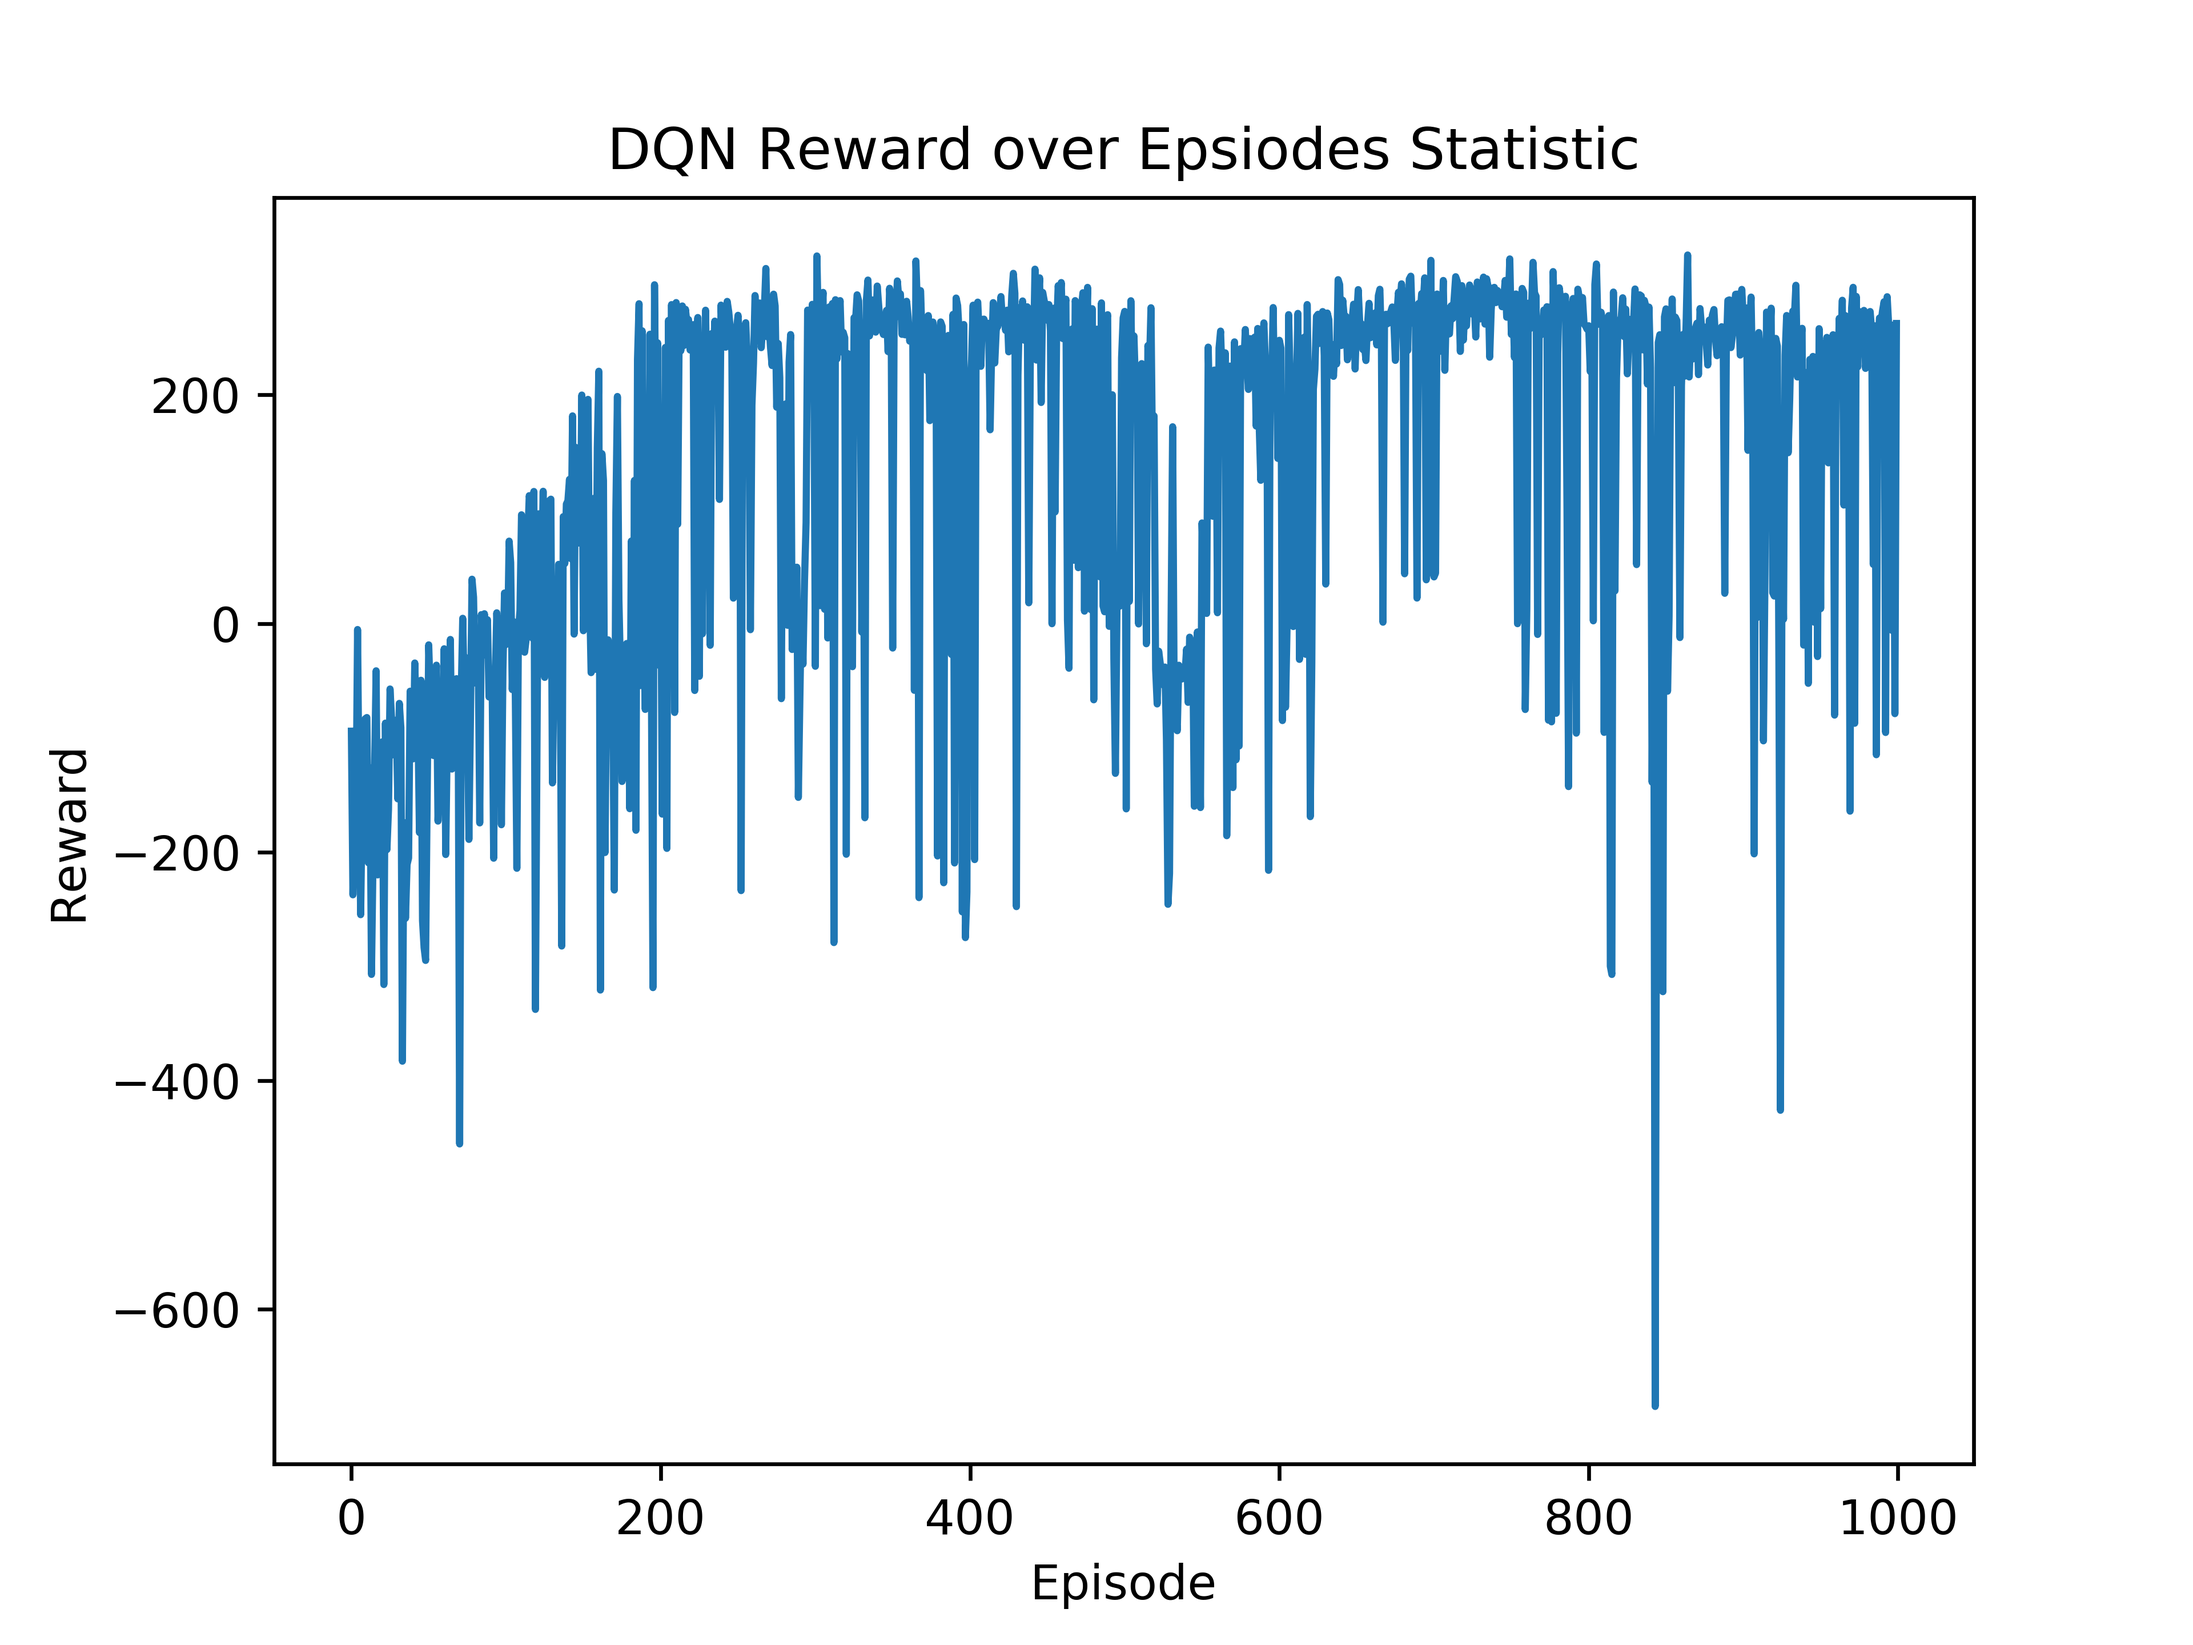
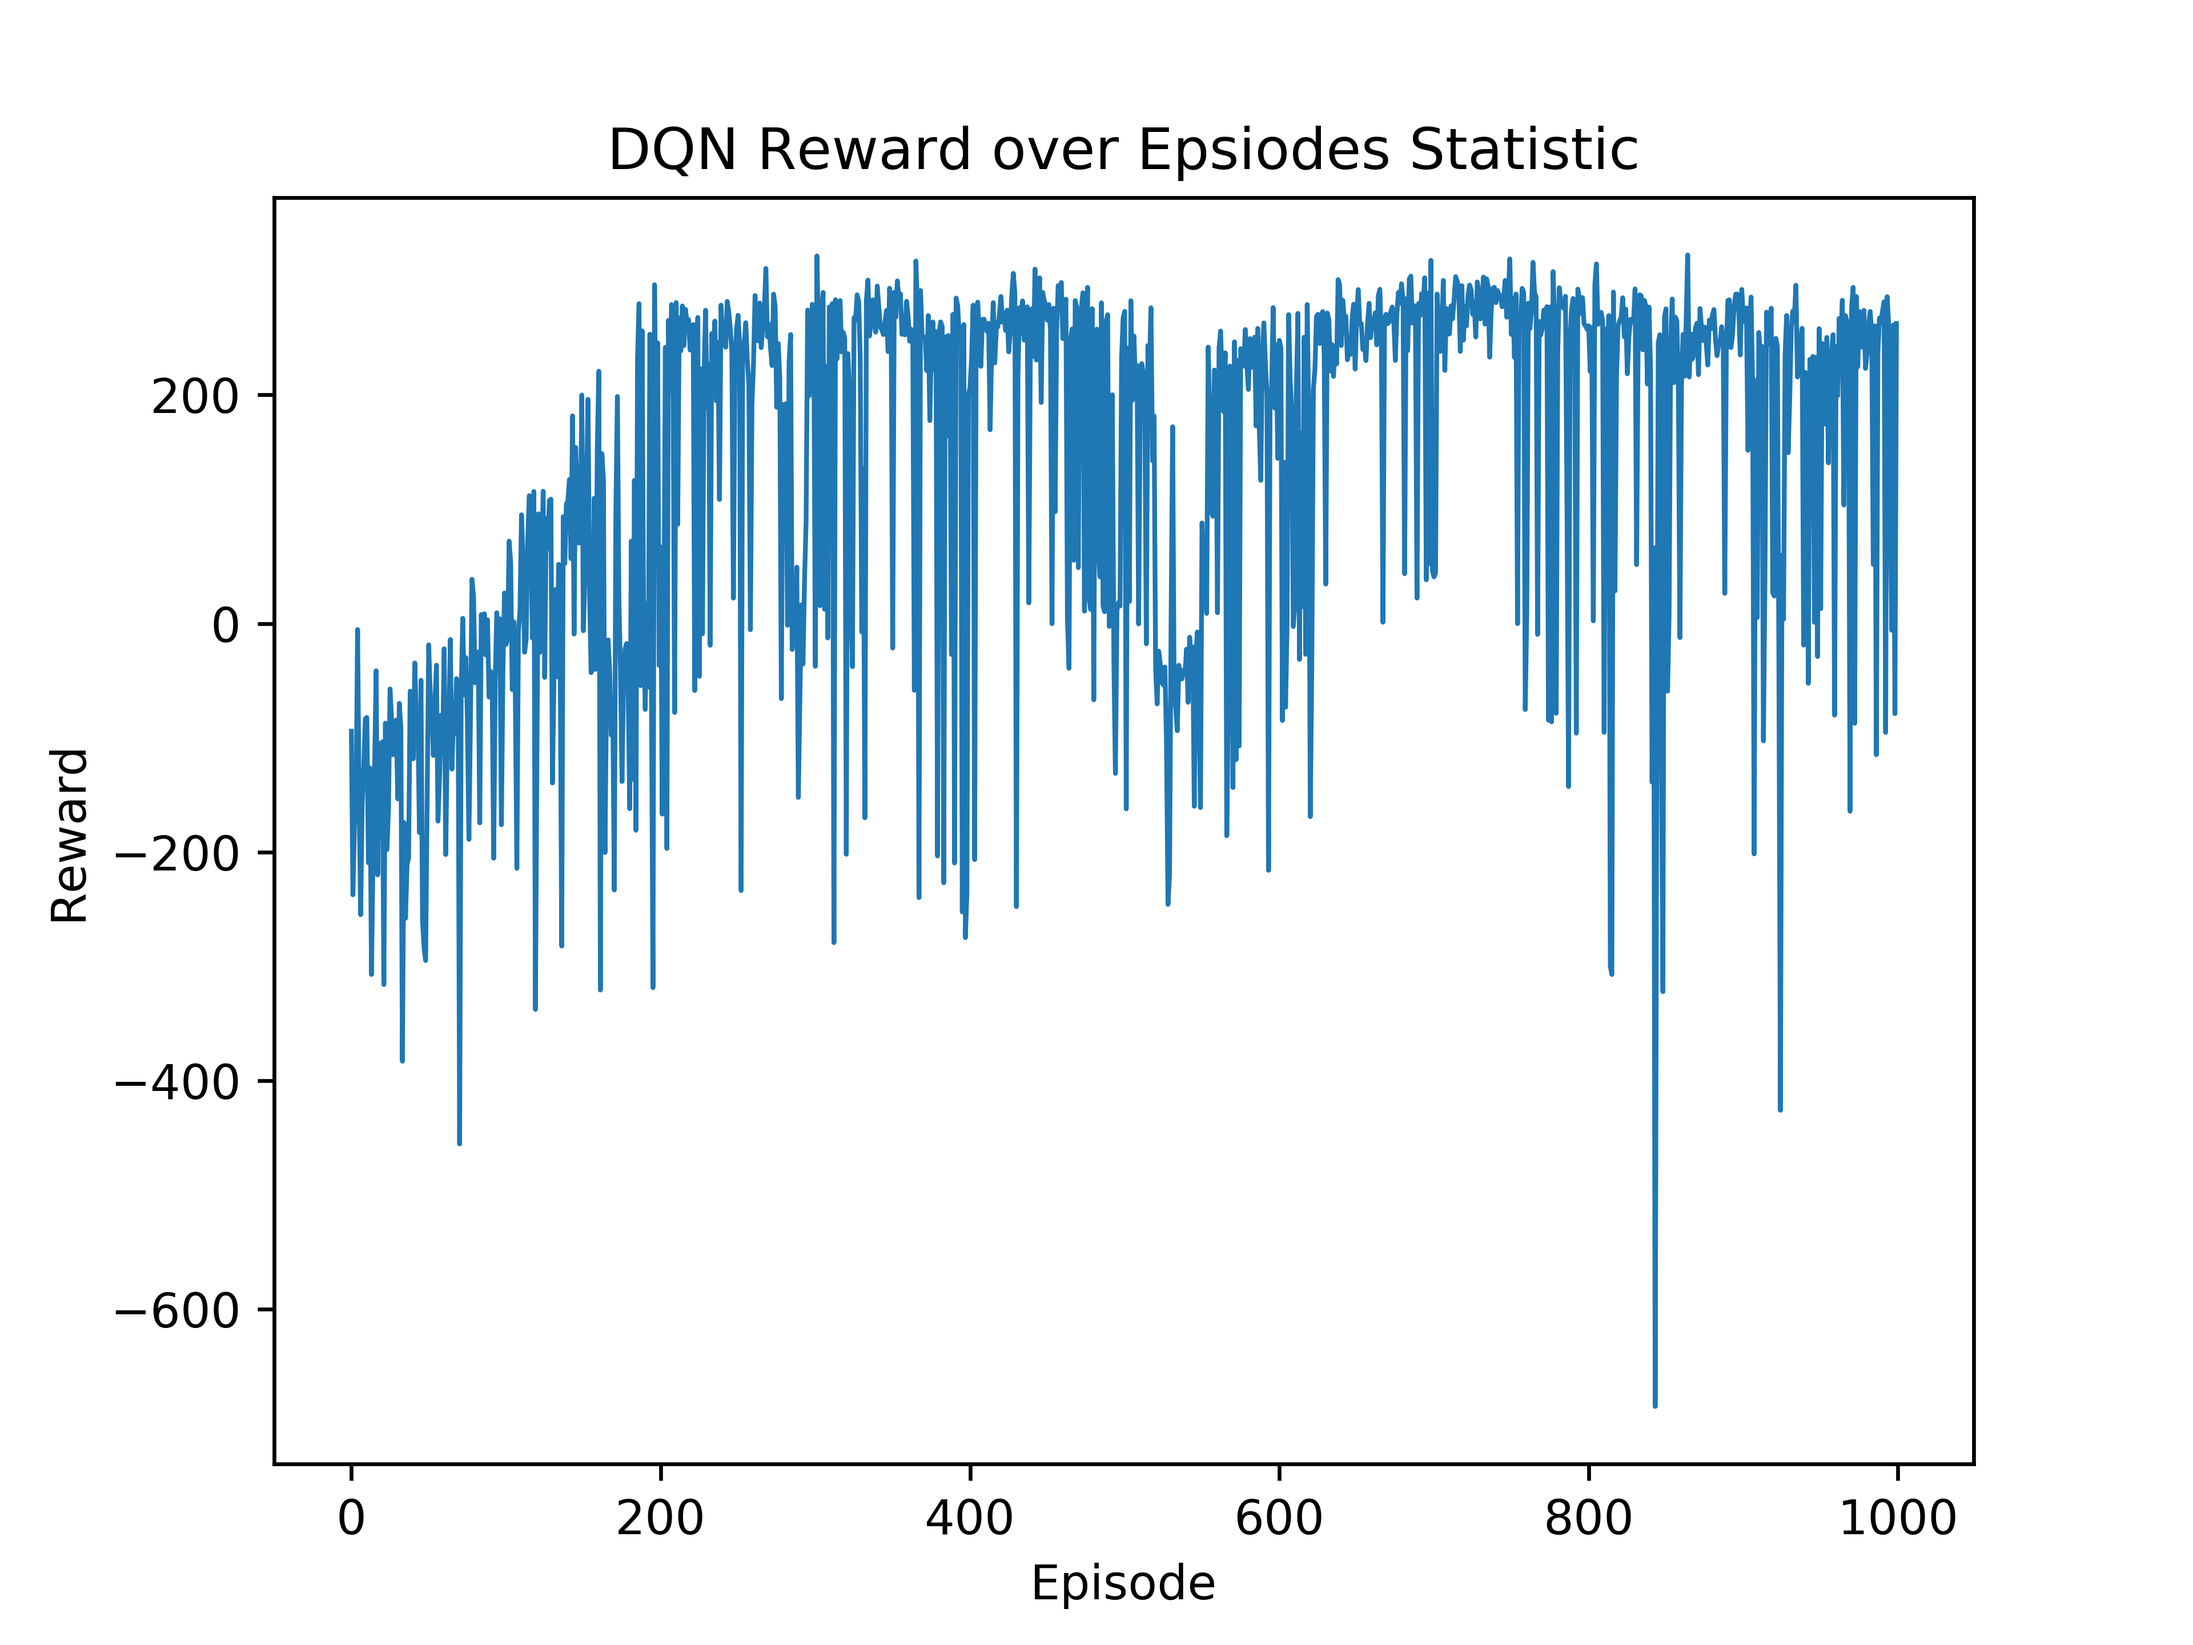
reduced line width for better readability

Changed region(s): [[0.1562, 0.1562, 0.875, 0.5938], [0.5, 0.1875, 0.5312, 0.2188], [0.4688, 0.1562, 0.5, 0.1875]]

diff --git a/evaluation.py b/evaluation.py
@@ -15,7 +15,7 @@ def plot_monitor_output(file, title):
     ax.set_title(title)
     ax.set_xlabel('Episode')
 
-    plt.plot(results['episode_rewards'])
+    ax.plot(results['episode_rewards'], linewidth=1)
     plt_out = file.parent / 'reward_plot.png'
     plt.savefig(plt_out, dpi=600)
     print("Plot saved as: " + str(plt_out))
